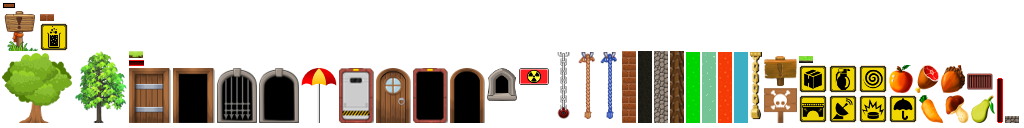
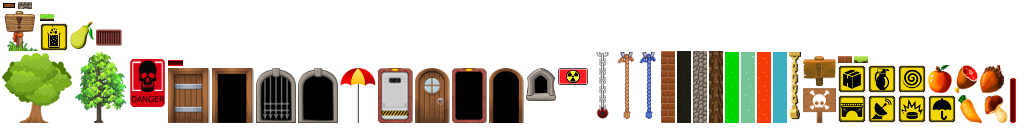
Added danger decorations (for Training level)

diff --git a/core/src/ru/mitrakov/self/rush/ui/Gui.java b/core/src/ru/mitrakov/self/rush/ui/Gui.java
@@ -161,7 +161,7 @@ public class Gui extends Actor {
         // static up textures, each with 4 styles
         TextureAtlas atlasUp = assetManager.get("pack/up.pack");
         for (Class clazz : new Class[]{Block.class, LadderTop.class, RopeLine.class, Water.class,
-                DecorationStatic.class, DecorationWarning.class, Stair.class}) {
+                DecorationStatic.class, DecorationWarning.class, DecorationDanger.class, Stair.class}) {
             IntMap<TextureRegion> m = new IntMap<TextureRegion>(STYLES_COUNT); // .... GC!
             for (int i = 0; i < STYLES_COUNT; i++) {
                 String key = clazz.getSimpleName() + i;

diff --git a/core/src/ru/mitrakov/self/rush/Winesaps.java b/core/src/ru/mitrakov/self/rush/Winesaps.java
@@ -26,8 +26,8 @@ import ru.mitrakov.self.rush.screens.*;
 public class Winesaps extends Game {
     public static final int WIDTH = 800;
     public static final int HEIGHT = 480;
-    public static final int VERSION = (1 << 16) | 2; // 1.0.2
-    public static final String VERSION_STR = "1.0.2";
+    public static final int VERSION = (1 << 16) | 3; // 1.0.3
+    public static final String VERSION_STR = "1.0.3";
     public static final String URL = "https://winesaps.com";
 
     public static final String HOST = "winesaps.ru";

diff --git a/core/src/ru/mitrakov/self/rush/model/Cell.java b/core/src/ru/mitrakov/self/rush/model/Cell.java
@@ -143,6 +143,8 @@ public class Cell {
                 return new DecorationDynamic(xy);
             case 0x32:
                 return new DecorationWarning(xy);
+            case 0x33:
+                return new DecorationDanger(xy);
             default:
                 return null;
         }

diff --git a/core/src/ru/mitrakov/self/rush/model/Cells.java b/core/src/ru/mitrakov/self/rush/model/Cells.java
@@ -341,4 +341,10 @@ public class Cells {
             super(0x32, xy);
         }
     }
+
+    public static class DecorationDanger extends CellObject {
+        public DecorationDanger(int xy) {
+            super(0x33, xy);
+        }
+    }
 }
